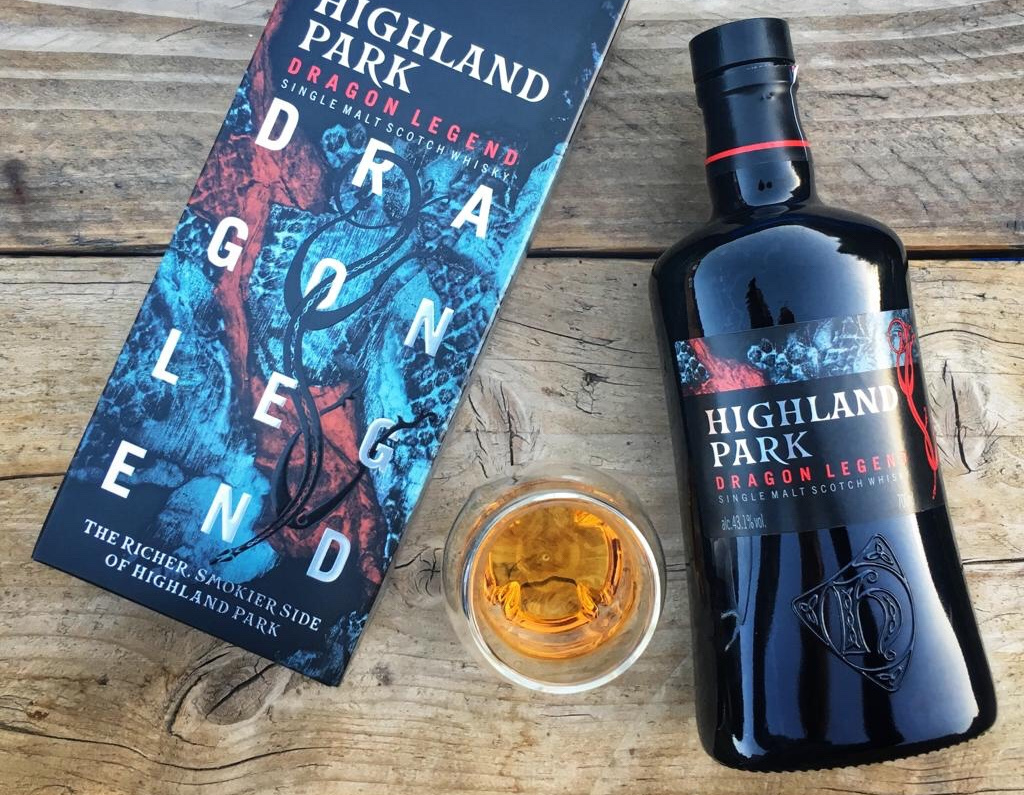
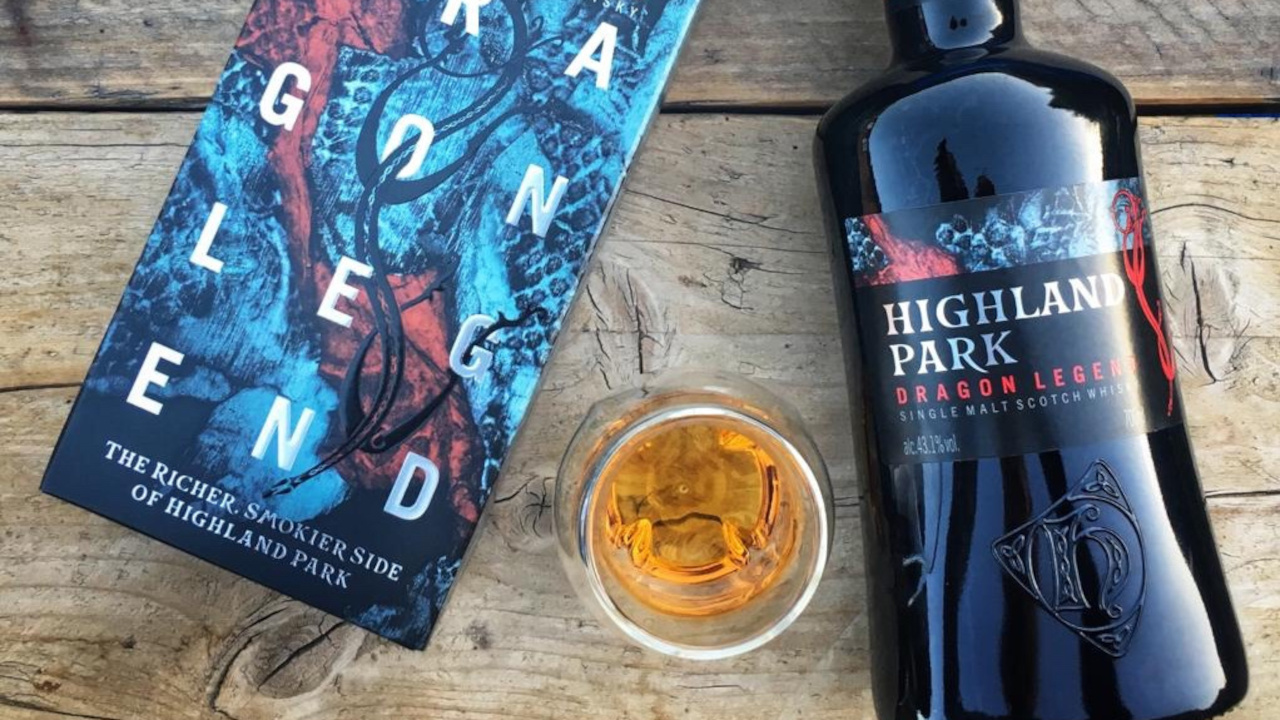
Rearrange elements on stream2 page to allow for bigger video window.

diff --git a/public/styles/style.css b/public/styles/style.css
@@ -498,7 +498,6 @@ body {
 /* --- STREAM 2 TESTING NEW STREAM PAGE --- */
 .stream2Background {
     position: absolute;
-    width: 1280px;
     opacity: 0.3;
 }
 
@@ -511,8 +510,8 @@ body {
 }
 
 #stream2Score1 {
-    top: 40px;
-    height: 40px;
+    top: 0px;
+    height: 43px;
 }
 
 #stream2Match1Label {
@@ -547,8 +546,8 @@ body {
 }
 
 #stream2MainTableLabel {
-    top: 110px;
-    left: 180px;
+    top: 70px;
+    left: 150px;
     font-size: 18px;
 }
 
@@ -565,8 +564,8 @@ body {
 }
 
 #stream2Score2 {
-    top: 630px;
-    height: 40px;
+    top: 628px;
+    height: 42px;
 }
 
 #stream2Match2Label {
@@ -604,20 +603,27 @@ body {
     position: absolute;
     top: 670px;
     width: 1280px;
-    background-color: wheat;
-    height: 50px;
+    background-color: rgb(162, 219, 255);
+    height: 55px;
 }
 
 #stream2SponsorStrapLower {
     position: absolute;
-    height: 64px;
+    height: 62px;
     bottom: 5px;
     left: 5px;
+}
+
+#stream2CompetitionLabel {
+    padding-left: 330px;
+    padding-top: 14px;
+    width: 960px;
+    opacity: 80%;
 }
 
 #stream2SponsorImageRight {
     position: absolute;
     bottom: 5px;
     right: -5px;
-    height: 150px;
+    height: 140px;
 }

diff --git a/public/stream2.html b/public/stream2.html
@@ -12,14 +12,7 @@
     <link rel="stylesheet" href="styles/style.css">
 </head>
 <body>
-    <!-- COMPETITION TITLE -->
-    <div class="stream2Competition">
-        <div>
-            <img id="stream2CompetitionLabel" src="../public/images/stream2CompetitionTitle.png"</img>
-        </div>
-    </div>
-
-    <img class="stream2Background" src="../public/images/hp-dragon-legend-bg-stream2.jpg">
+    <img class="stream2Background" src="../public/images/hp-dragon-legend-bg-stream.jpg">
 
     <!-- MATCH 1 SCOREBOARD -->
     <div class="score" id="stream2Score1">
@@ -90,6 +83,9 @@
     <div class="stream2SponsorLower">
         <div>
             <img src="../public/images/hpStrap.png" id="stream2SponsorStrapLower">
+        </div>
+        <div>
+            <img id="stream2CompetitionLabel" src="../public/images/stream2CompetitionTitle.png"</img>
         </div>
         <div>
             <img src="../public/images/Highland-Park-Dragon-Legend-1.png" id="stream2SponsorImageRight">
